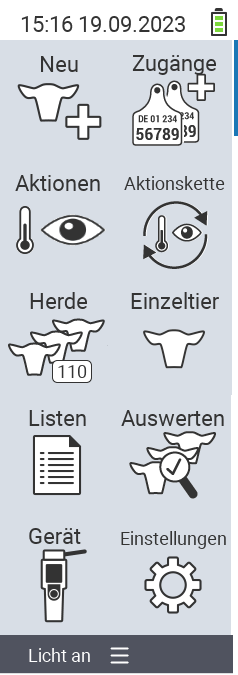
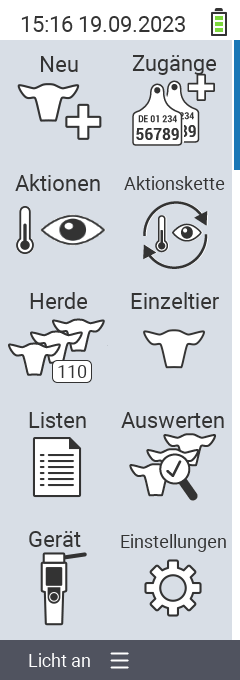
Menübaum: Erweiterungen (DE und EN)

diff --git a/content/de/docs/menu/hauptmenu/_index.md b/content/de/docs/menu/hauptmenu/_index.md
@@ -5,5 +5,24 @@ translationKey: mainmenu
 weight: 130
 no_list: true
 ---
+Die nachfolgende interaktive Grafik zeigt den Menübaum des VitalControl-Geräts an:
 
-![VitalControl Hauptmenü](bilder/hauptmenue.png/ "Hauptmenü")
+{{% alert title="Hinweis" %}}
+Klicken Sie auf einen Menüpunkt, so werden Sie zu einer Beschreibung der jeweiligen Funktion weitergeleitet.
+{{% /alert %}}
+
+<img src="bilder/hauptmenue.png/" alt="VitalControl Hauptmenü" title="Hauptmenü" usemap="#workmap"> 
+
+<map name="workmap">
+  <area shape="rect" coords="0,40,116,160" alt="Neu" title="Neue Tiere anlegen&#10;Mausklick: zur Dokumentation" href="/docs/neu/">
+  <area shape="rect" coords="0,160,116,280" alt="Aktionen" title="Aktionen am Tier&#10;Mausklick: zur Dokumentation" href="/docs/aktionen/">
+  <area shape="rect" coords="0,280,116,400" alt="Herde" title="Herdenmenü&#10;Mausklick: zur Dokumentation" href="/docs/herde/">
+  <area shape="rect" coords="0,400,116,520" alt="Listen" title="Tierlisten&#10;Mausklick: zur Dokumentation" href="/docs/listen/">
+  <area shape="rect" coords="0,520,116,640" alt="Gerät" title="Gerät&#10;Mausklick: zur Dokumentation" href="/docs/listen/">
+
+  <area shape="rect" coords="116,40,232,160" alt="Zugänge" title="Zugänge von Tieren&#10;Mausklick: zur Dokumentation" href="/docs/zugaenge/">
+  <area shape="rect" coords="116,160,232,280" alt="Aktionskette" title="Aktionskette&#10;Mausklick: zur Dokumentation" href="/docs/aktionskette/">
+  <area shape="rect" coords="116,280,232,400" alt="Einzeltier" title="Einzeltier&#10;Mausklick: zur Dokumentation" href="/docs/einzeltier/">
+  <area shape="rect" coords="116,400,232,520" alt="Auswerten" title="Auswerten&#10;Mausklick: zur Dokumentation" href="/docs/auswertung/">
+  <area shape="rect" coords="116,400,232,640" alt="Einstellungen" title="Einstellungen&#10;Mausklick: zur Dokumentation" href="/docs/einstellungen/">
+</map>

diff --git a/content/de/docs/menu/_index.md b/content/de/docs/menu/_index.md
@@ -12,7 +12,6 @@ Tags: [Hauptmenü, Aktionen]
 translationKey: menu-tree
 no_list: True
 ---
-
 Die nachfolgende interaktive Grafik zeigt den Menübaum des VitalControl-Geräts an:
 
 {{% alert title="Hinweis" %}}
